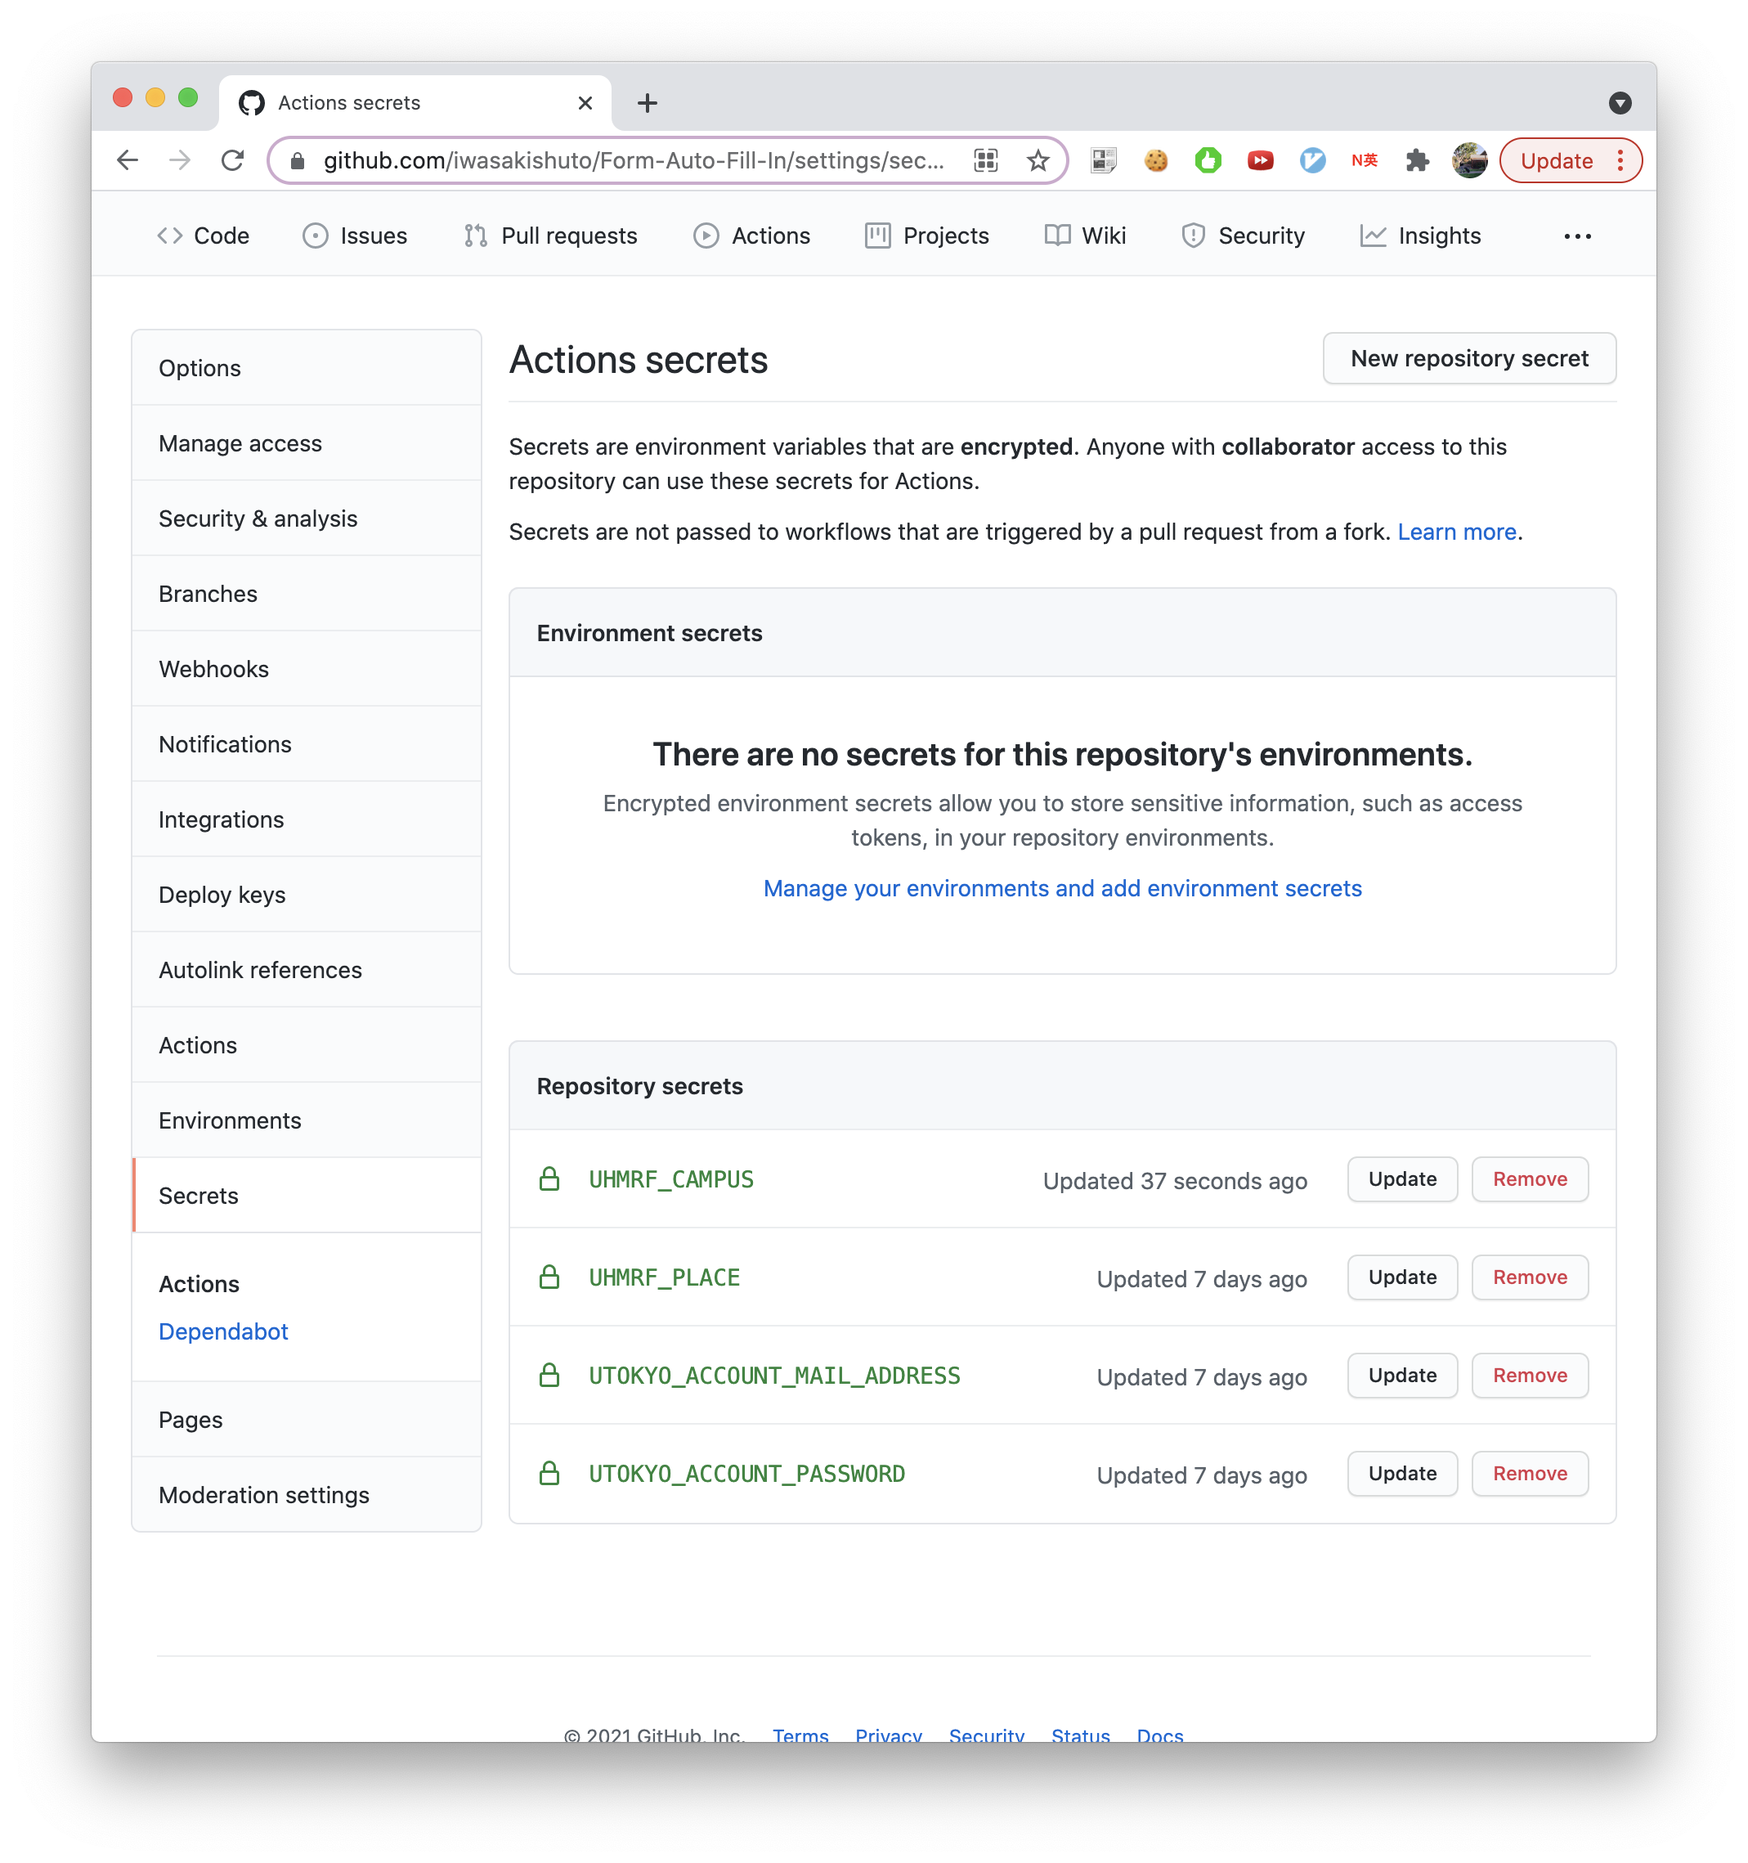
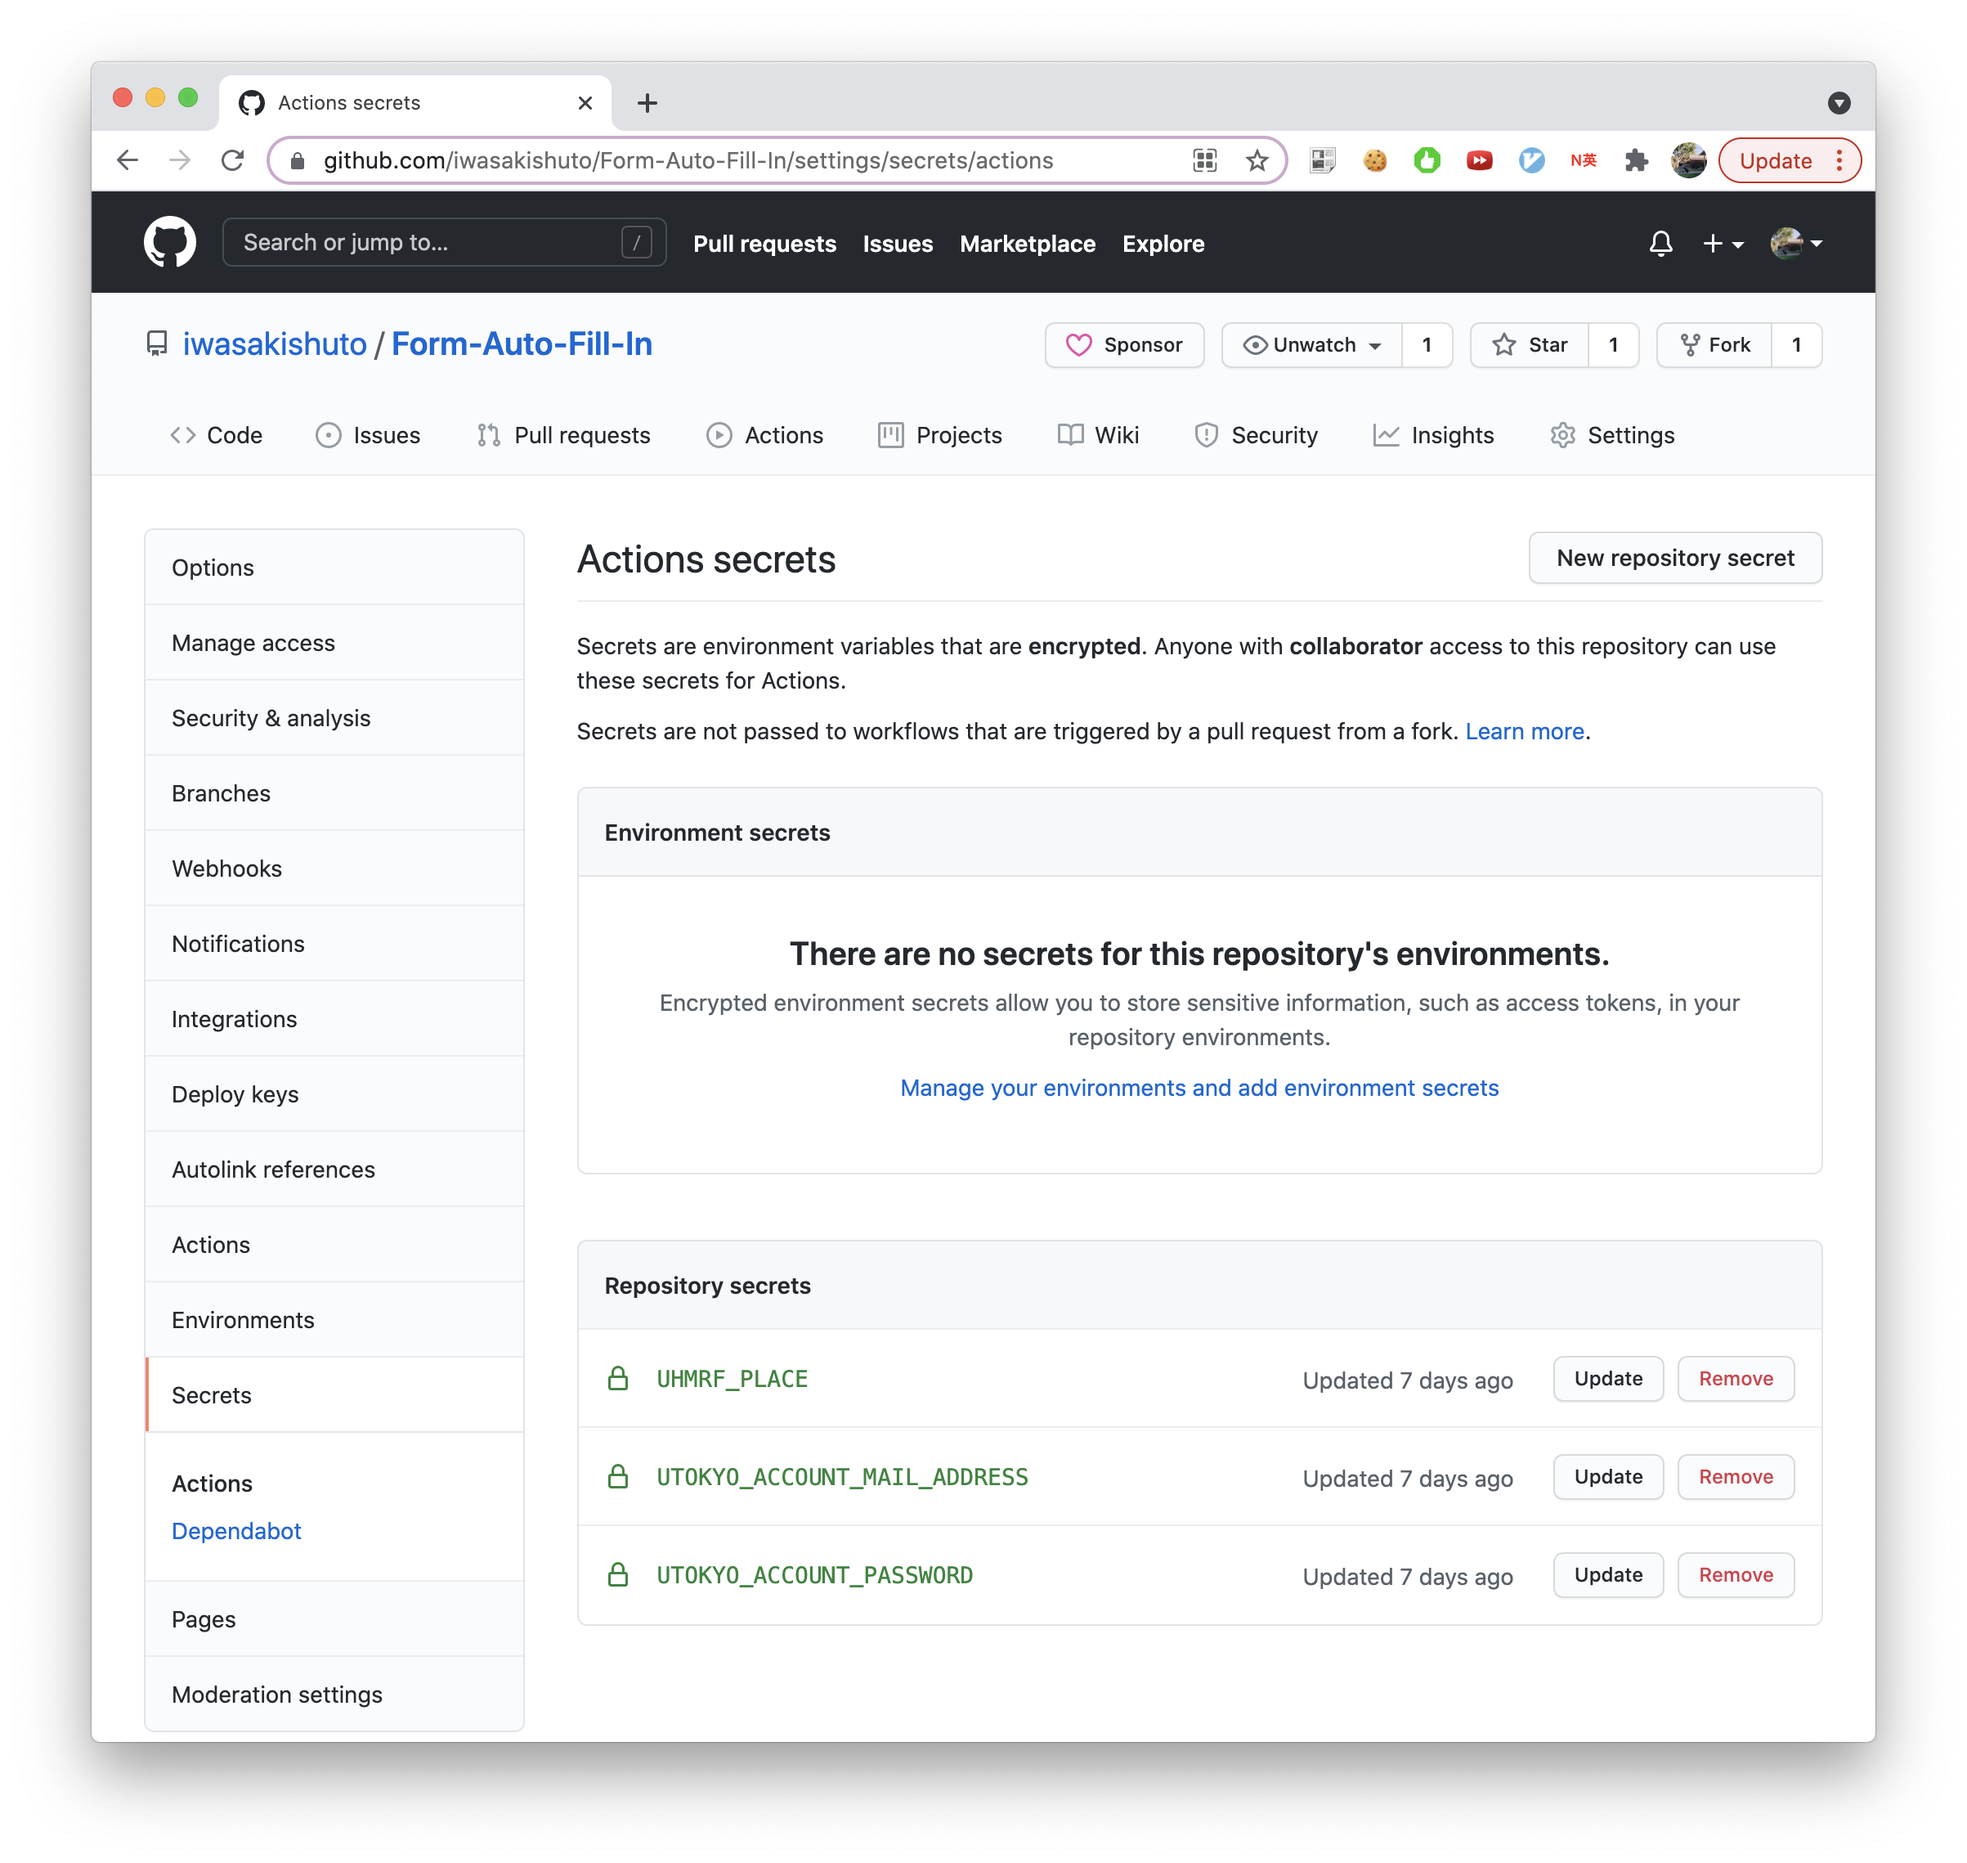
:wastebasket: Removed 'CAMPUS' option.

diff --git a/form_auto_fill_in/main.py b/form_auto_fill_in/main.py
@@ -34,7 +34,6 @@ def UHMRF(argv: list = sys.argv[1:]):
     path = os.path.join(DATA_DIR, "UHMRF.json")
     tmp_path = os.path.join(DATA_DIR, "UHMRF_tmp.json")
     old2new: Dict[str, str] = {
-        "UHMRF_CAMPUS": os.getenv("UHMRF_CAMPUS", "1"),  # 1.Hongo Area Campuses
         "UHMRF_PLACE": os.getenv("UHMRF_PLACE", ""),
         "UTOKYO_ACCOUNT_MAIL_ADDRESS": os.getenv("UTOKYO_ACCOUNT_MAIL_ADDRESS", ""),
         "UTOKYO_ACCOUNT_PASSWORD": os.getenv("UTOKYO_ACCOUNT_PASSWORD", ""),

diff --git a/README.md b/README.md
@@ -30,7 +30,6 @@ The program can be executed by the following two methods, but the former is reco
 
 |Name|Value (example)|description|
 |:-:|:-|:-|
-|`UHMRF_CAMPUS`|Enter `1,3` for "Hongo Area Campuses" and "Kashiwa Area Campuses"|1.Hongo Area Campuses<br>2.Komaba Area Campuses<br>3.Kashiwa Area Campuses<br>4.Other Campus|
 |`UHMRF_PLACE`|ex. 理学部3号館|**Main place(s) you will be staying at or visiting on campus todayImmersive Reader**. Please enter the name(s) and floor(s) of the building(s) you will be staying at or visiting as listed on the campus map on the UTokyo website ( https://www.u-tokyo.ac.jp/en/about/access.html ).|
 |`UTOKYO_ACCOUNT_MAIL_ADDRESS`|`XXX@utac.u-tokyo.ac.jp`|Email Address required to access [UTokyo Health Management Report Form](https://www.u-tokyo.ac.jp/covid-19/ja/safety/healthcheck.html)|
 |`UTOKYO_ACCOUNT_PASSWORD`|PASSWORD|Password required to access [UTokyo Health Management Report Form](https://www.u-tokyo.ac.jp/covid-19/ja/safety/healthcheck.html)|
